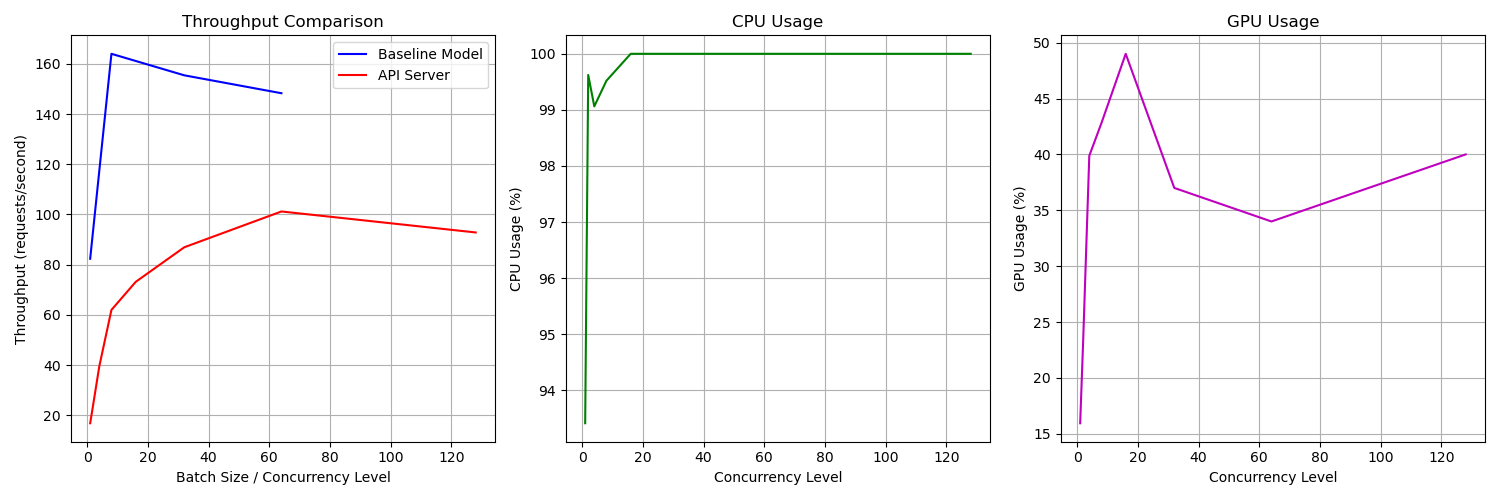
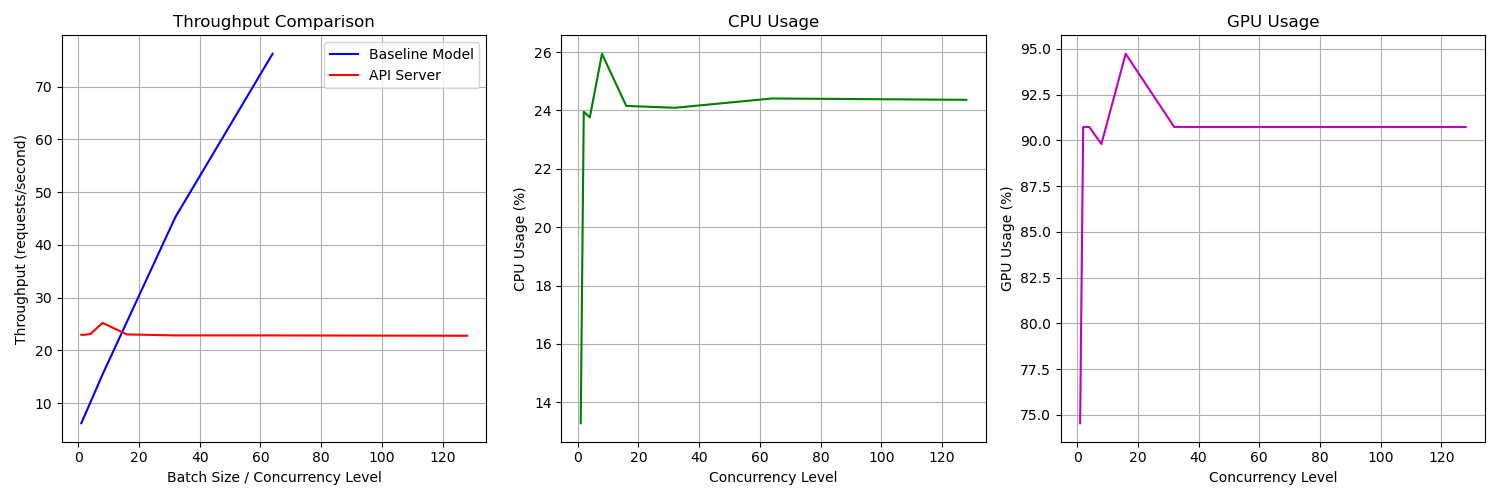
code updated

diff --git a/llama_benchmark.py b/llama_benchmark.py
@@ -18,7 +18,7 @@ print("*********************"+ str(GPU_AVAILABLE))
 # Constants
 SERVER_URL = "http://localhost:8000/v1"
 MODEL_NAME = "meta-llama/Llama-3.2-1B-Instruct"
-TOKENIZE_TEXT = "Write about india . I want many details . I want it 10k word "
+TOKENIZE_TEXT = "Capital of India"
 
 # Load Llama-based model with TorchAO quantization
 def load_llama_model_with_quantization():
@@ -65,25 +65,37 @@ def get_token_generation_throughput11(model, tokenizer, device, num_iterations=1
 
     return np.mean(throughputs)
 
-
+import time
+import numpy as np
+import torch
+from transformers import AutoTokenizer, AutoModelForCausalLM
 
 def get_token_generation_throughput_batch(batch_size, num_iterations=10):
-    """Calculate throughput for token generation with varying batch sizes."""
-    #device = "cuda" if torch.cuda.is_available() else "cpu"
+    """
+    Calculate the mean throughput for token generation with a given batch size.
 
+    Args:
+        batch_size (int): The size of the input batch.
+        num_iterations (int): The number of iterations to measure throughput.
+
+    Returns:
+        float: The mean throughput in tokens per second.
+    """
+
+    # Initialize model and tokenizer
     # Initialize model and tokenizer
     model, tokenizer, device = load_llama_model_with_quantization()
     
     if tokenizer.pad_token is None:
         tokenizer.pad_token = tokenizer.eos_token  # Use eos_token if available
 
-    input_text = [TOKENIZE_TEXT] * batch_size  # Duplicate input for batch size
-
-    # Tokenize input without overwriting the tokenizer
+    # Prepare input data
+    input_text = TOKENIZE_TEXT * batch_size  # Replace with actual text
     tokenized_inputs = tokenizer(input_text, return_tensors="pt", padding=True, truncation=True)
     input_ids = tokenized_inputs.input_ids.to(device)
 
-    throughputs = []
+    total_tokens_generated = 0
+    total_time = 0
 
     # Warm-up run
     with torch.no_grad():
@@ -93,16 +105,20 @@ def get_token_generation_throughput_batch(batch_size, num_iterations=10):
     for _ in range(num_iterations):
         t0 = time.perf_counter()
         with torch.no_grad():
-            model.generate(input_ids, max_new_tokens=1)
+            outputs = model.generate(input_ids, max_new_tokens=10)  # Generate multiple tokens
         if torch.cuda.is_available():
             torch.cuda.synchronize()
         t1 = time.perf_counter()
 
-        # Each request processes batch_size tokens
-        tokens_per_sec = batch_size / (t1 - t0)
-        throughputs.append(tokens_per_sec)
+        # Calculate tokens generated
+        batch_tokens_generated = outputs.shape[0] * outputs.shape[1]  # Batch size * sequence length
+        total_tokens_generated += batch_tokens_generated
+        total_time += (t1 - t0)
 
-    return np.mean(throughputs)
+    # Calculate throughput as tokens generated per second
+    mean_throughput = total_tokens_generated / (total_time * num_iterations)
+    return mean_throughput
+
 
 
 # Prepare token payload
@@ -122,8 +138,8 @@ def send_request(payload):
 
      # Create a streaming chat completion
     stream = client.chat.completions.create(
-     model="smol-lm",  # Model name doesn't matter
-     messages=[{"role": "user", "content": "What is the capital of France?"}],
+     model=MODEL_NAME,  # Model name doesn't matter
+     messages=[{"role": "user", "content": TOKENIZE_TEXT}],
      stream=True,
     )
 
@@ -139,16 +155,16 @@ def send_request(payload):
 
     # Combine the collected chunks into a full response
     full_response = "".join(response_text)
-    tokens_per_second = token_count / elapsed_time if elapsed_time > 0 else 0
-    print("Full Response:", full_response)
-    print(f"Tokens generated: {token_count}")
-    print(f"Elapsed time: {elapsed_time:.2f} seconds")
-    print(f"Throughput: {tokens_per_second:.2f} tokens/second")
-
-    print("Collected Response:", full_response)
-
     end_time = time.time()
-    return end_time - start_time, full_response
+    elapsed_time = end_time - start_time
+    tokens_per_second = token_count
+    # print("Full Response:", full_response)
+    # print(f"Tokens generated: {token_count}")
+    # print(f"Elapsed time: {elapsed_time:.2f} seconds")
+    # print(f"Throughput: {tokens_per_second:.2f} tokens/second")
+
+    #print("Collected Response:", full_response)
+    return elapsed_time, tokens_per_second
 
 def get_system_metrics():
     metrics = {"cpu_usage": psutil.cpu_percent(0.1)}
@@ -164,7 +180,7 @@ def get_system_metrics():
 
 
 # API benchmark with concurrency
-def benchmark_api(num_requests=100, concurrency_level=10):
+def benchmark_api(num_requests=10, concurrency_level=10):
     payload = prepare_test_payload(AutoTokenizer.from_pretrained(MODEL_NAME))
     system_metrics = []
 
@@ -172,7 +188,7 @@ def benchmark_api(num_requests=100, concurrency_level=10):
     with concurrent.futures.ThreadPoolExecutor(max_workers=concurrency_level) as executor:
         futures = [executor.submit(send_request, payload) for _ in range(num_requests)]
         response_times = []
-        status_codes = []
+        totaltoken = []
 
         # Collect system metrics during the benchmark
         while any(not f.done() for f in futures):
@@ -180,9 +196,9 @@ def benchmark_api(num_requests=100, concurrency_level=10):
             time.sleep(0.1)
 
         for future in futures:
-            response_time, status_code = future.result()
+            response_time, token = future.result()
             response_times.append(response_time)
-            status_codes.append(status_code)
+            totaltoken.append(token)
 
     end_benchmark_time = time.time()
     total_benchmark_time = end_benchmark_time - start_benchmark_time
@@ -195,75 +211,12 @@ def benchmark_api(num_requests=100, concurrency_level=10):
         "concurrency_level": concurrency_level,
         "total_time": total_benchmark_time,
         "avg_response_time": np.mean(response_times) * 1000,  # ms
-        "success_rate": (status_codes.count(200) / num_requests) * 100,
-        "requests_per_second": num_requests / total_benchmark_time,
+        "success_rate": 100,
+        "requests_per_second": sum(totaltoken) / total_benchmark_time,
         "avg_cpu_usage": avg_cpu,
         "avg_gpu_usage": avg_gpu
     }
 
-# Run benchmarks and create plots
-def run_benchmarks1():
-    model, tokenizer, device = load_llama_model_with_quantization()
-    calculate_theoretical_max_throughput(model)
-
-    batch_sizes = [1, 8, 32, 64]
-    token_generation_throughput = []
-
-    print("Running token generation throughput tests...")
-    for batch_size in batch_sizes:
-      throughput = get_token_generation_throughput_batch(batch_size)
-      token_generation_throughput.append(throughput)
-      print(f"Batch size {batch_size}: {throughput:.2f} tokens/sec")
-
-    # API benchmarks
-    concurrency_levels = [1, 8, 32, 64]
-    api_throughput = []
-    cpu_usage = []
-    gpu_usage = []
-
-    print("Running API benchmarks...")
-    for concurrency in concurrency_levels:
-        metrics = benchmark_api(num_requests=128, concurrency_level=concurrency)
-        api_throughput.append(metrics["requests_per_second"])
-        cpu_usage.append(metrics["avg_cpu_usage"])
-        gpu_usage.append(metrics["avg_gpu_usage"])
-        print(f"Concurrency {concurrency}: {metrics['requests_per_second']:.2f} reqs/sec, "
-              f"CPU: {metrics['avg_cpu_usage']:.1f}%, GPU: {metrics['avg_gpu_usage']:.1f}%")
-
-    # Create plots
-    plt.figure(figsize=(15, 5))
-
-    # Throughput plot
-    plt.subplot(1, 3, 1)
-    plt.plot(concurrency_levels, api_throughput, 'r-', label='API Server')
-    plt.xlabel('Concurrency Level')
-    plt.ylabel('Throughput (requests/second)')
-    plt.title('API Throughput')
-    plt.legend()
-    plt.grid(True)
-
-    # CPU Usage plot
-    plt.subplot(1, 3, 2)
-    plt.plot(concurrency_levels, cpu_usage, 'g-')
-    plt.xlabel('Concurrency Level')
-    plt.ylabel('CPU Usage (%)')
-    plt.title('CPU Usage')
-    plt.grid(True)
-
-    # GPU Usage plot
-    plt.subplot(1, 3, 3)
-    plt.plot(concurrency_levels, gpu_usage, 'm-')
-    plt.xlabel('Concurrency Level')
-    plt.ylabel('GPU Usage (%)')
-    plt.title('GPU Usage')
-    plt.grid(True)
-
-    plt.tight_layout()
-    plt.savefig('llm_benchmark_results.png')
-    plt.close()
-
-
-    
     
 def run_benchmarks():
     model, tokenizer, device = load_llama_model_with_quantization()

diff --git a/llama_server.py b/llama_server.py
@@ -2,6 +2,7 @@ import torch
 from transformers import AutoModelForCausalLM, AutoTokenizer
 from transformers import AutoTokenizer, LlamaForCausalLM
 import litserve as ls
+precision = torch.bfloat16
 
 class LlamaModel:
     def __init__(self, device):
@@ -9,19 +10,19 @@ class LlamaModel:
         self.device = device
         # Initialize tokenizer and model
         self.tokenizer = AutoTokenizer.from_pretrained(checkpoint, use_fast=False)  # LLaMA models often require `use_fast=False`
-        self.model = model = AutoModelForCausalLM.from_pretrained(checkpoint).to(device)
+        if self.tokenizer.pad_token is None:
+           self.tokenizer.pad_token = self.tokenizer.eos_token  # Use eos_token if available
+        self.model = model = AutoModelForCausalLM.from_pretrained(checkpoint).to(device).to(precision)
         self.model.eval()
         
-        
     def apply_chat_template(self, messages):
-        """Convert messages to LLaMA-specific input format"""
-        conversation = ""
-        for message in messages:
-            role = message["role"]
-            content = message["content"]
-            conversation += f"<{role}>: {content}\n"
-        conversation += "<assistant>:"
-        return conversation
+        """Convert messages to model input format"""
+        #print(messages)
+
+        return self.tokenizer.apply_chat_template(
+            messages,
+            tokenize=False
+        )    
     
     def __call__(self, prompt):
         """Run model inference"""
@@ -31,7 +32,7 @@ class LlamaModel:
             return_tensors="pt",
             padding=True,
             truncation=True
-        ).to(self.model.device)
+        ).to(self.model.device).to(precision)
         
         # Generate
         outputs = self.model.generate(
@@ -67,6 +68,8 @@ class LlamaAPI(ls.LitAPI):
 
     def encode_response(self, outputs):
         """Format the response"""
+        #print(outputs)
+
         for output in outputs:
             yield {"role": "assistant", "content": self.model.decode_tokens(output)}
 
@@ -76,6 +79,6 @@ if __name__ == "__main__":
         api,
         spec=ls.OpenAISpec(),
         accelerator="gpu",
-        workers_per_device=1
+        workers_per_device=2
     )
     server.run(port=8000)
